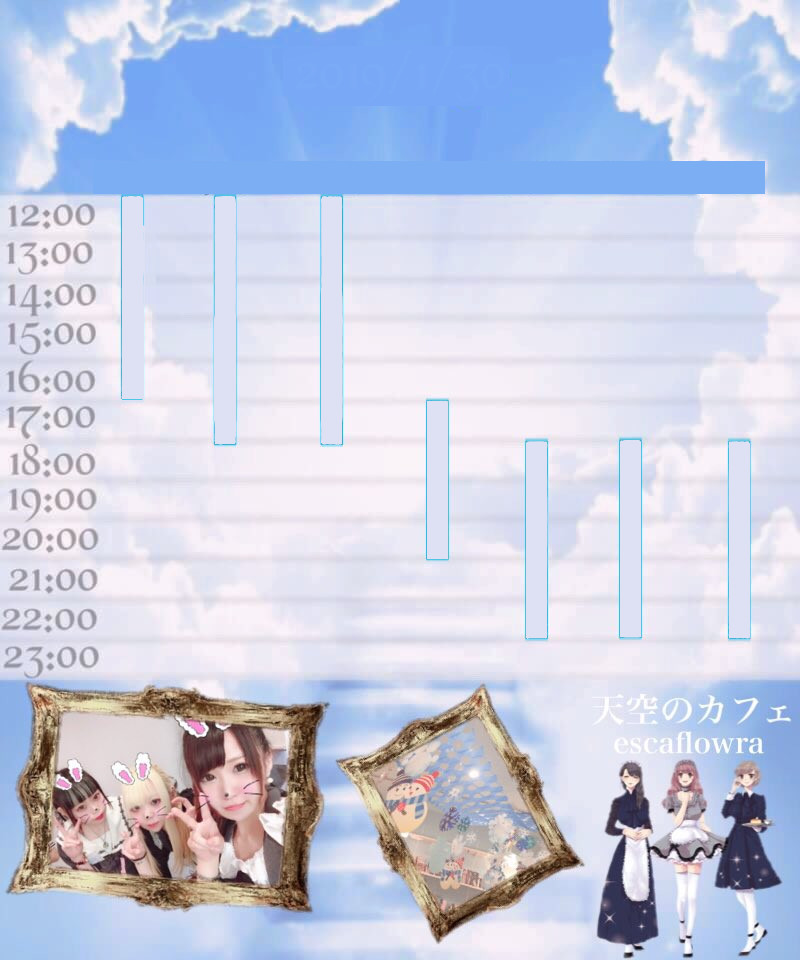
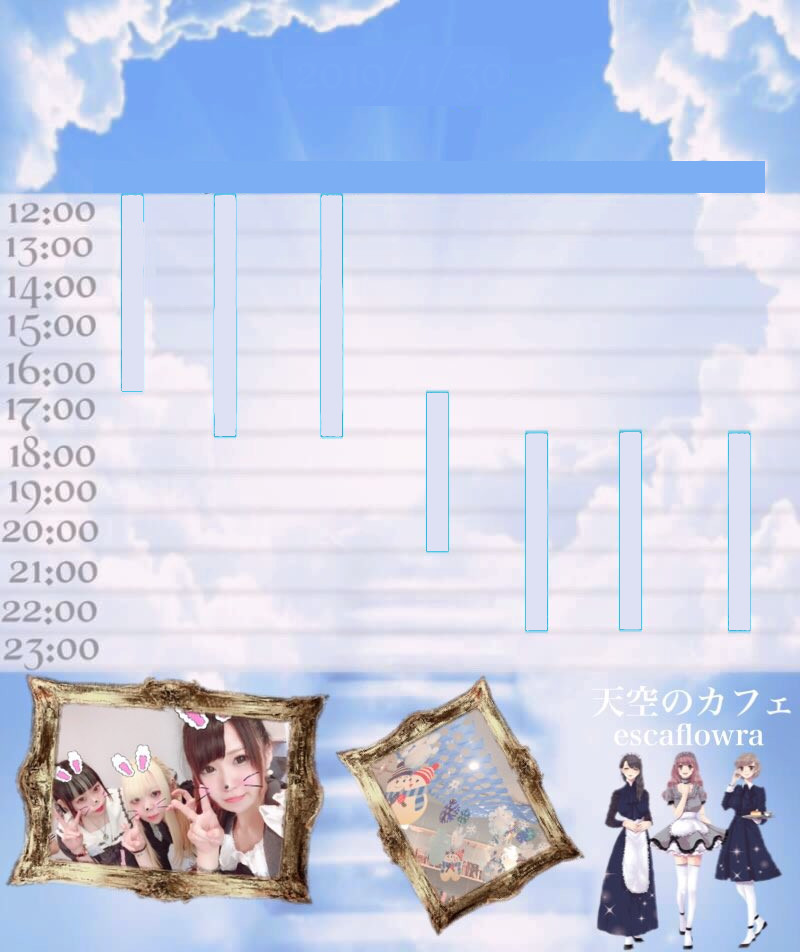
バグ修正

diff --git a/docs/js/sample.js b/docs/js/sample.js
@@ -1,3 +1,11 @@
+//TODO:
+//フォント、フォントサイズ
+//バーの長さが合わない（幅が均一ではないため）
+//Rectのぼかし(必要ない？)
+//バータイム対応(しないかも)
+//正しい画像に差し替え
+
+
 // Canvasの準備
 var canvas = document.getElementById('canvas');
 canvas.width = 0;
@@ -24,11 +32,11 @@ clone_form();
 const baseImageInfo = {
     size: {
         width: 800,
-        height: 960
+        height: 952
     },
     timelineArea: {
         top: 195,
-        bottom: 675,
+        bottom: 667,
         leftOffset: 100
     }
 }
@@ -61,7 +69,9 @@ function generateImage() {
         var outputImg = document.createElement('img');
         //outputImg.crossOrigin = 'anonymous';
         outputImg.src = data;
-        document.getElementById('result').appendChild(outputImg);
+        var result = document.getElementById('result');
+        if (result.firstChild) result.removeChild(result.firstChild);
+        result.appendChild(outputImg);
     }
     img.src = "base.jpg";
 
@@ -102,20 +112,20 @@ function putDate() {
     ctx.textAlign = 'center';
     ctx.textBaseline = 'middle';
     ctx.fillStyle = '#ffffff';
-    ctx.fillText(document.getElementById("date").nodeValue, baseImageInfo.size.width / 2, baseImageInfo.size.height / 12);
+    ctx.fillText(document.getElementById("date").value, baseImageInfo.size.width / 2, baseImageInfo.size.height / 12);
 }
 
 //名前とタイムラインを表示
 function putNameAndLine(xpos, castInfo) {
     //名前
-    ctx.font = "27px 'MS Pゴシック'"; //フォントサイズは制御しないといけないかも
+    ctx.font = "27px 'MS Pゴシック'";
     ctx.textAlign = 'center';
     ctx.textBaseline = 'bottom';
     ctx.fillStyle = '#375b8b';
     ctx.fillText(castInfo.name, xpos, baseImageInfo.timelineArea.top);
     //タイムライン
     const barWidth = (baseImageInfo.size.width - baseImageInfo.timelineArea.leftOffset) / 30;
-    const lengthPerMinute = (baseImageInfo.timelineArea.bottom - baseImageInfo.timelineArea.bottom) / (12 * 60);
+    const lengthPerMinute = (baseImageInfo.timelineArea.bottom - baseImageInfo.timelineArea.top) / (12 * 60);
     const barTop = baseImageInfo.timelineArea.top + (timestrToMinutes(castInfo.begin) - 12 * 60) * lengthPerMinute;
     const barHeight = (timestrToMinutes(castInfo.end) - timestrToMinutes(castInfo.begin)) * lengthPerMinute;
     ctx.fillStyle = '#01aed9';
@@ -124,5 +134,8 @@ function putNameAndLine(xpos, castInfo) {
 
 function timestrToMinutes(str) {
     const time = str.split(':');
-    return parseInt(time[0]) * 60 + parseInt(time[1]);
+    const hour = parseInt(time[0]);
+    const minute = parseInt(time[1]);
+    if (hour >= 24 || hour < 12) return 24 * 60; //営業時間外を指定した場合
+    return hour * 60 + minute;
 }

diff --git a/docs/index.html b/docs/index.html
@@ -1,8 +1,14 @@
+<!DOCTYPE html>
+<html lang="ja">
+
 <head>
     <title>エスカフローラ シフト画像ジェネレーター</title>
+    <meta charset="utf-8">
+    <meta name="viewport" content="width=device-width, initial-scale=1">
 </head>
 
 <body>
+    <script type="text/javascript" src="js/sample.js" defer></script>
     <h1>エスカフローラ シフト画像ジェネレーター</h1>
 
     <div id="input_form" style="display:none">
@@ -22,6 +28,4 @@
 
     <canvas id="canvas"></canvas>
     <div id="result"></div>
-
-    <script type="text/javascript" src="js/sample.js"></script>
 </body>
